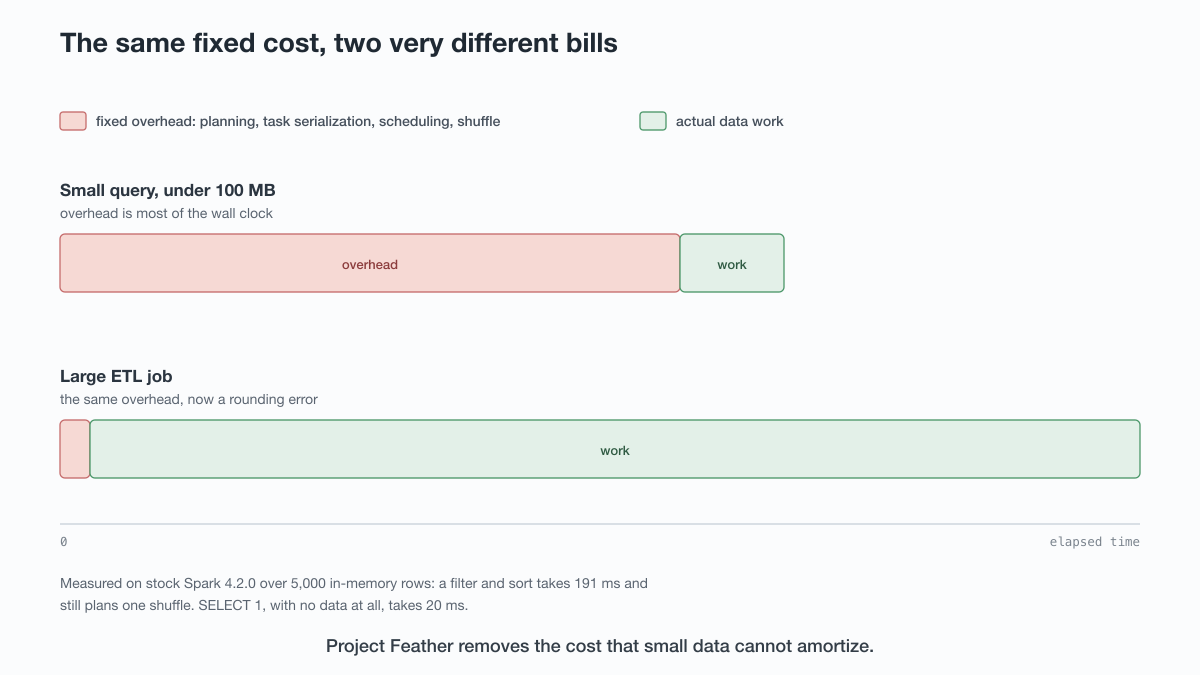
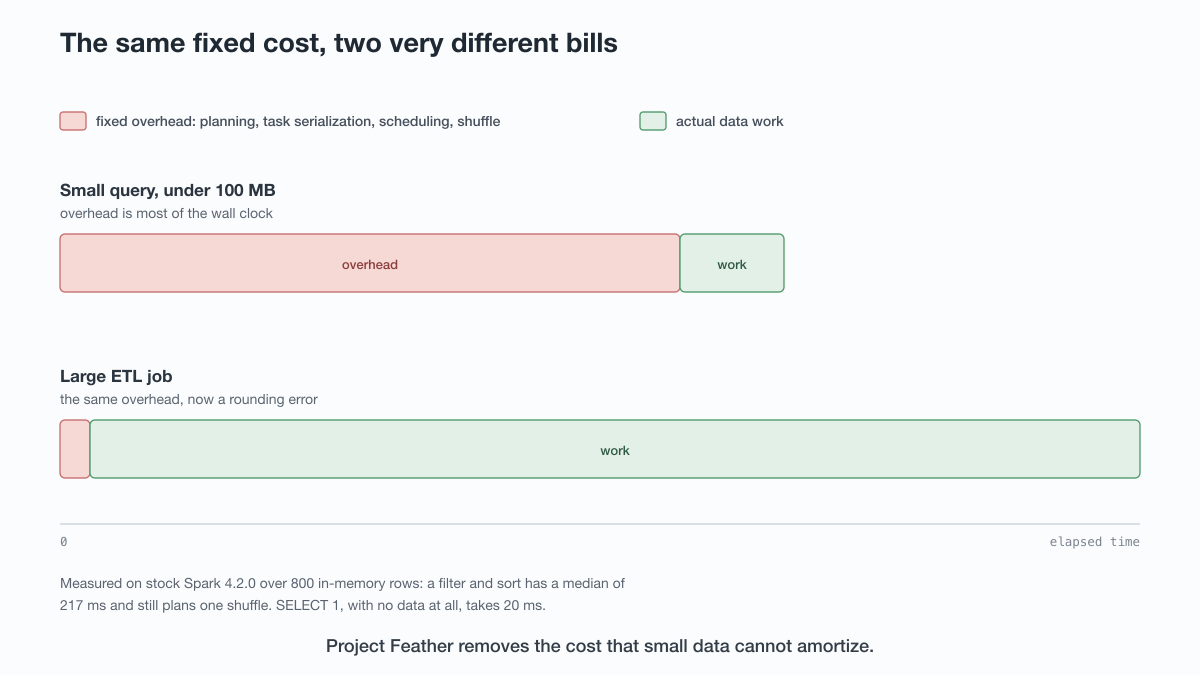
Feather: rewrite prose in blog voice, drop the document-review framing
The piece read like a review of a document rather than a blog post about
engineering. 18 sentences had "the SPIP" or "the proposal" as their grammatical
subject, and several referenced material a reader never sees.

Rewrote 17 paragraphs so Spark and the engineering are the subject:

- "The proposal aims to improve Spark's usability" -> "It makes Spark more
  usable and interactive"
- "The SPIP states the small-data consequence directly" -> "Under 100 MB, they
  add up to something you feel"
- "which the SPIP describes as a 2x boost on that example" -> "a 2x improvement
  on that query"
- "The proposal's reason is a capability constraint" -> "the reason is capability
  rather than preference"

Fixed the dangling references, which were worse than the voice:

- "Milestone 1 has not started as filed work" referenced a milestone list that
  the earlier restructure cut. Now: "no ticket filed yet."
- "The committed benchmarks show..." pointed at files never shown. Now: "The
  numbers are already public, and they are mixed."
- "Its own scope note is worth reading alongside Feather's" asked the reader to
  consult another proposal. Now states the caveat directly.
- "Daniel also raised a maintenance concern in conversation" pointed at an
  interview the reader has not seen. Now presented as an argument on its merits.

Three "the proposal" mentions remain, all pointing at the actual document where
that is the correct referent.
[…]

Changed region(s): [[0.0308, 0.84, 0.555, 0.9022]]

diff --git a/demos/07_project_feather/companion_guide.md b/demos/07_project_feather/companion_guide.md
@@ -4,11 +4,11 @@
 
 Apache Spark was built to process data at any scale, and for large jobs it does. On a laptop, over a few hundred megabytes, the same architecture that makes a distributed job reliable makes an interactive one slow. Project Feather is the community's proposal to fix that.
 
-The proposal ([SPARK-56978](https://issues.apache.org/jira/browse/SPARK-56978)) was authored by Daniel Tenedorio and Liang-Chi Hsieh, discussed on the Spark developer list from 4 May 2026, and passed its vote on 20 May 2026. Part of the work is merged for Spark 4.3. The rest is in progress.
+Daniel Tenedorio and Liang-Chi Hsieh brought Feather to the Spark developer list in May 2026, where it passed a community vote as [SPARK-56978](https://issues.apache.org/jira/browse/SPARK-56978). Part of the work is merged for Spark 4.3. The rest is still being built.
 
 ## What the proposal targets
 
-Feather's objective is narrow. The proposal aims to improve Spark's usability and interactivity for small-data queries, making it more useful for individuals and beginners. It does not aim to outperform specialized single-node engines. The goal is to lower the barrier to entry, so that a newcomer's first experience of Spark on a laptop is a reasonable one. The path from there to a cluster should then involve no change of tools.
+Feather's objective is narrow. It makes Spark more usable and interactive for small-data queries, aimed at individuals and beginners rather than at benchmark wins against specialized single-node engines. The point is that a newcomer's first experience of Spark on a laptop should be a reasonable one, and that the path from there to a cluster should involve no change of tools.
 
 That framing rules some things out. Feather is not a new engine, and it changes no APIs. The SQL language, the SQL API, and the DataFrame APIs in Python and Scala all stay as they are, deliberately, because years of community work sit behind them. What changes is the fixed cost Spark pays around a query.
 
@@ -16,9 +16,9 @@ That framing rules some things out. Feather is not a new engine, and it changes 
 
 Spark's architecture is optimized for distributed, large-scale processing. Every query gets a plan, stages, and tasks. The scheduler dispatches those tasks to executors, serializing and deserializing task descriptions on the way. Catalyst traverses the plan repeatedly for analysis and optimization. Blocking shuffles separate the stages, which is what allows adaptive query execution to re-plan on real statistics. All of it serves fault tolerance, transient failure recovery, and adaptive execution.
 
-Individually these costs are small, tens of milliseconds and sometimes less. Nobody notices them in a job that runs for an hour. The SPIP states the small-data consequence directly: queries over less than 100 MB often run for three seconds or more.
+Individually these costs are small, tens of milliseconds and sometimes less. Nobody notices them in a job that runs for an hour. Under 100 MB, though, they add up to something you feel: queries that often take three seconds or more.
 
-Three seconds is long enough to change behavior. Users doing basic analysis reach for a simpler single-node engine, which the proposal identifies as a barrier to Spark adoption rather than a preference. The SPIP does not rest on the authors' own impressions here. It cites third-party writing on Spark's small-data performance: a Spark versus Dask comparison, an essay on Spark and not-so-big data, and a runtime benchmark. The motivation is a reputation problem visible from outside the project.
+Three seconds is long enough to change behavior. Users doing basic analysis reach for a simpler single-node engine, and once they do, they rarely come back to Spark for the next small job either. That habit is a barrier to adoption rather than a preference, and it is visible from outside the project: benchmarks and essays comparing Spark unfavorably to Dask and to single-node tools on small data are easy to find, and Feather's authors cite them.
 
 ![Fixed overhead dominates a small query and is a rounding error on a large ETL job.](graphics/f1-overhead-stack.png)
 
@@ -38,7 +38,7 @@ The `Exchange` line shuffles 800 rows across 200 partitions so the sort has the 
 
 ## What the work entails
 
-The proposal groups its optimizations into three categories. They differ in risk, in how far along they are, and in how much of Spark they touch.
+Feather's optimizations fall into three groups. They differ in risk, in how far along they are, and in how much of Spark they touch.
 
 ![The three Project Feather categories and their status.](graphics/f2-three-categories.png)
 
@@ -46,11 +46,11 @@ The proposal groups its optimizations into three categories. They differ in risk
 
 Query compilation covers analysis, optimization, and physical planning. On large data it is noise; on small data it dominates. This category collects optimizer and planner improvements aimed at small-data scenarios, reduced metadata access times, and lower task serialization and deserialization overhead.
 
-In the proposal's example, when the planner knows a scan comprises exactly one file it can report `SinglePartition` output partitioning instead of the default. Spark then skips an intermediate shuffle before a following aggregation or hash join. A prototype of a filter-and-sort over a few thousand rows went from two stages and 330 milliseconds to one stage and 150 milliseconds, which the SPIP describes as a 2x boost on that example.
+One concrete change: when the planner knows a scan comprises exactly one file, it can report `SinglePartition` output partitioning instead of the default. Spark then skips an intermediate shuffle before a following aggregation or hash join. In an early prototype, a filter-and-sort over a few thousand rows went from two stages and 330 milliseconds to one stage and 150 milliseconds, a 2x improvement on that query.
 
-A larger piece in this category is the [single-pass analyzer](https://issues.apache.org/jira/browse/SPARK-49834), a separate and still-open proposal that rewrites Catalyst's analysis as a single tree traversal. Its own scope note is worth reading alongside Feather's: it does not target average-query latency, and Feather claims its benefit for queries of high plan complexity.
+A larger piece of this work is the [single-pass analyzer](https://issues.apache.org/jira/browse/SPARK-49834), tracked separately and still open, which rewrites Catalyst's analysis as a single tree traversal. Temper your expectations on that one: it targets queries with complex plans, not the average query, where latency is dominated by other things.
 
-Status: described in the SPIP, but the umbrella has three subtasks and none is this category. Milestone 1 has not started as filed work.
+Status: no ticket filed yet. This category is described in the proposal, but the three open subtasks all belong to the other two.
 
 ### Arrow-based df.cache
 
@@ -58,7 +58,7 @@ Status: described in the SPIP, but the umbrella has three subtasks and none is t
 
 Arrow format replaces Spark's existing in-memory cache representation as an option, not as the default. Two payoffs are expected: vectorized columnar reads, and a smaller footprint from Arrow IPC compression, so more of the working set fits in memory.
 
-Benchmark results are already in the tree. The committed benchmarks show Arrow competitive with or faster than the default on primitive and columnar workloads, with the largest win on the zero-copy re-cache path, and the default still faster at higher compression levels. That mixed picture is why it ships opt-in, selected through `spark.sql.cache.serializer`.
+The numbers are already public, and they are mixed. Arrow is competitive with or faster than the existing format on primitive and columnar data, and it wins biggest when re-reading a cache without copying. At higher compression levels the old format still wins. That is why Arrow arrives as a choice rather than a default: you select it through `spark.sql.cache.serializer`.
 
 Status: merged ([SPARK-57268](https://issues.apache.org/jira/browse/SPARK-57268)), present in `branch-4.3`.
 
@@ -80,7 +80,7 @@ Serialize to and from disk     Direct memory transfer
 
 Each input partition gets an asynchronous sender task, with Java virtual threads as the proposed mechanism. Threads communicate over FIFO queues with configurable size limits and automatic backpressure, so senders pause when a channel fills.
 
-Documented risks follow. Using virtual threads introduces a dependency on JDK 21 or later, which the proposal frames as conditional, with fallback to platform threads for older environments. Buffer sizing could cause out-of-memory crashes if misconfigured, mitigated with conservative defaults of 100 elements per queue. Complex locking in the channel gates carries a deadlock risk, to be addressed with concurrency testing and simple lock ordering.
+The risks are real and named. Virtual threads would require JDK 21 or later, so that mechanism is conditional, with a fallback to platform threads for older environments. Buffer sizing could cause out-of-memory crashes if misconfigured, mitigated with conservative defaults of 100 elements per queue. Complex locking in the channel gates carries a deadlock risk, to be addressed with concurrency testing and simple lock ordering.
 
 There is also a deliberate loss. Adaptive query execution works at shuffle boundaries, so removing the shuffle removes AQE's opportunity to re-plan. That is why the planner has to be confident the query is small before choosing this path.
 
@@ -90,15 +90,15 @@ Status: part one merged ([SPARK-57851](https://issues.apache.org/jira/browse/SPA
 
 Feather is scoped to local mode. Three boundaries follow from that, and they explain design decisions that would otherwise look conservative.
 
-**Clusters are out of scope.** The proposal's reason is a capability constraint: shuffle-free execution only works when all data fits and is processed in a single JVM, so it cannot replace distributed shuffle for multi-node clusters. Improvements to cluster execution will be tangential only, with reduced task serialization named as the example that generalizes. Daniel also raised a maintenance concern in conversation: a second execution path in distributed jobs means anyone debugging a production pipeline has to ask which path their query took.
+**Clusters are out of scope**, and the reason is capability rather than preference. Shuffle-free execution only works when all the data fits and is processed in a single JVM, so it cannot replace distributed shuffle on a multi-node cluster. Cluster jobs will pick up some benefit incidentally, mostly from cheaper task serialization. There is a maintenance argument too: a second execution path in distributed jobs would mean anyone debugging a production pipeline has to work out which path their query took.
 
 **Spark Connect is independent.** Connect decouples the client from the cluster, so you write logic against one API and run it against a driver elsewhere, which solves a version-coupling problem rather than a latency one. Feather addresses how fast the engine executes locally. You can run a Connect server on your own machine and get Feather's benefits, or use classic mode where your program becomes the driver and get them there too.
 
-**Session creation is adjacent, not included.** It came up in discussion, and the authors' reply was that it could be useful to look at but risked making the proposal too complex, so it was left for separate investigation. The motivation raised was automated test cycles, where every run starts a new session. It appears in no milestone and no subtask.
+**Session creation is a neighboring problem**, deliberately left out. Someone raised it during review, pointing at automated test cycles where every run pays to start a new session. The authors agreed it was worth looking at and then set it aside to keep the scope manageable, so no ticket covers it today.
 
 ## Status and what to expect
 
-Apache Spark 4.2.0 is the current release and **none of Feather's configuration flags exist in it**. The merged work is present in `branch-4.3` with fix version 4.3.0, which has not shipped. The SPIP estimates three to six months depending on how many engineers work concurrently.
+Apache Spark 4.2.0 is the current release, and **none of Feather's configuration flags exist in it**. The merged work sits in `branch-4.3`, targeted at 4.3.0, which has not shipped. Estimates put the remaining work at three to six months, depending on how many people are on it.
 
 | Category | Merged | Available |
 |---|---|---|
@@ -108,13 +108,13 @@ Apache Spark 4.2.0 is the current release and **none of Feather's configuration 
 | Shuffle-free execution, part 2 | No | Unscheduled |
 | Local repartition | No, ticket open | Unscheduled |
 
-Two details in that table will shape your first experience of 4.3. The shuffle-free rule ships disabled, so upgrading alone changes nothing until you set `spark.sql.optimizer.singleTaskExecution.enabled`. And for in-memory relations it applies only at or below 1,000 rows by default, so a larger test fixture stays ineligible even with the flag on. The end state the proposal describes needs no tuning, since Spark knows when it is running locally; the current state is opt-in while the work stabilizes.
+Two details in that table will shape your first experience of 4.3. The shuffle-free rule ships disabled, so upgrading alone changes nothing until you set `spark.sql.optimizer.singleTaskExecution.enabled`. And for in-memory relations it applies only at or below 1,000 rows by default, so a larger test fixture stays ineligible even with the flag on. The eventual goal is that none of this needs tuning, since Spark already knows when it is running locally. For now it is opt-in while the code settles.
 
-Success criteria come from the SPIP itself: three milestones, one per category, and a performance check requiring macro-benchmarks for each so the gains are reproducibly verifiable. That last commitment is the useful one, because how much faster depends on your machine, your data, and your query shape. If you want your own numbers before and after upgrading, a [companion harness](https://github.com/lisancao/spark-42-demos) measures session creation, small-query latency, and the shuffle count in your plans.
+Each of the three categories has to clear its own milestone, and each comes with macro-benchmarks so anyone can reproduce the gains. That last part matters more than it sounds, because how much faster you get depends on your machine, your data, and your query shape. A [companion harness](https://github.com/lisancao/spark-42-demos) measures session creation, small-query latency, and the shuffle count in your plans, so you can take your own before-and-after reading across the upgrade.
 
 ## Getting involved
 
-The umbrella JIRA [SPARK-56978](https://issues.apache.org/jira/browse/SPARK-56978) and its subtasks are where the work is tracked; the DISCUSS and VOTE threads closed in May 2026. Pull requests are welcome, and the open subtask on local repartition is the clearest place to help. The authors engaged with community suggestions in the proposal's comment thread, though not everything raised was adopted.
+Work is tracked on [SPARK-56978](https://issues.apache.org/jira/browse/SPARK-56978) and its subtasks; the mailing list discussion wrapped up in May 2026. Pull requests are welcome, and local repartition is the clearest thing to pick up, since the ticket is open and unclaimed. Community suggestions did shape the plan during review, though not every idea made the cut.
 
 For a project whose original promise was running anywhere, from a laptop to a thousand nodes, closing the gap at the small end is a return to form rather than a new direction.
 
@@ -124,4 +124,4 @@ For a project whose original promise was running anywhere, from a laptop to a th
 
 **Lisa N. Cao** works on Apache Spark at Databricks and hosts the Apache Spark YouTube channel.
 
-*Based on a conversation on the Apache Spark YouTube channel and the [public SPIP document](https://docs.google.com/document/d/1Nphejrf_vh4YRECn0JPgKClqxDS_lB6wufZFJQxyY98/edit). Claims attributed to the proposal were checked against that document and its comment thread; config names, defaults, and merge status were read from `branch-4.3` of the Apache Spark source and from JIRA. [Link to video]*
+*Based on a conversation on the Apache Spark YouTube channel and the [public SPIP document](https://docs.google.com/document/d/1Nphejrf_vh4YRECn0JPgKClqxDS_lB6wufZFJQxyY98/edit). Technical claims were checked against the proposal and its comment thread; config names, defaults, and merge status come from `branch-4.3` of the Apache Spark source and from JIRA. [Link to video]*
